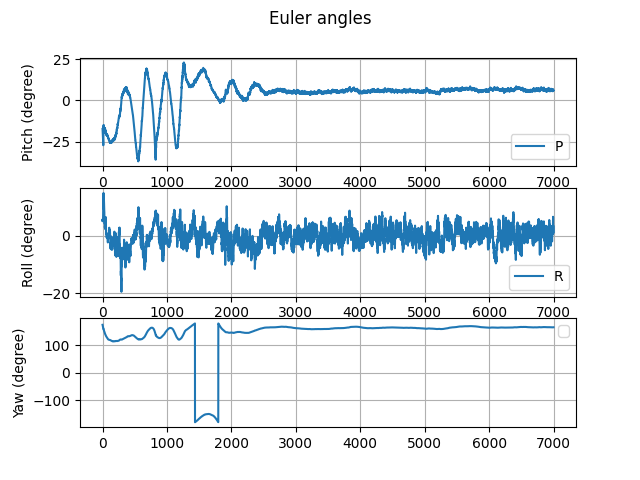
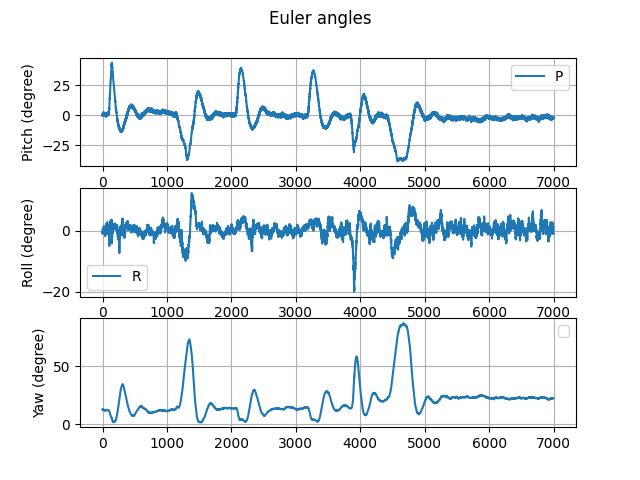
updated Hower PWM to 1340

diff --git a/Wifi Socket Control/bldc_class_control.py b/Wifi Socket Control/bldc_class_control.py
@@ -70,6 +70,8 @@ print("ESC Calibrated, Now start commands")
 
 esc1_pwm = 1300
 esc2_pwm = 1300
+
+step_change = 5
 while True:
     data, addr = sock.recvfrom(1024)
     ## The above data comes in bytes, need to convert it into string
@@ -86,16 +88,16 @@ while True:
         esc2.set(min_value)
     
     elif data == "d1a":
-        esc1_pwm = 1700 if esc1_pwm >= 1700 else esc1_pwm + 50
+        esc1_pwm = 1700 if esc1_pwm >= 1700 else esc1_pwm + step_change
         esc1.set(esc1_pwm)
     elif data == "d1s":
-        esc1_pwm = 1199 if esc1_pwm <= 1199 else esc1_pwm - 50
+        esc1_pwm = 1199 if esc1_pwm <= 1199 else esc1_pwm - step_change
         esc1.set(esc1_pwm)
     elif data == "d2a":
-        esc2_pwm = 1700 if esc2_pwm >=1700 else esc2_pwm + 50
+        esc2_pwm = 1700 if esc2_pwm >=1700 else esc2_pwm + step_change
         esc2.set(esc2_pwm)
     elif data == "d2s":
-        esc2_pwm = 1199 if esc2_pwm <= 1199 else esc2_pwm - 50
+        esc2_pwm = 1199 if esc2_pwm <= 1199 else esc2_pwm - step_change
         esc2.set(esc2_pwm)
     
     elif data == "device4off":

diff --git a/Twin Rotor/pitch_yaw_controller.py b/Twin Rotor/pitch_yaw_controller.py
@@ -76,9 +76,9 @@ epochs = 8000
 Q = np.tile([1.0, 0.0,0.0,0.0], (epochs,1))
 eul = []
 
-PID_PI_P_GAIN = 0.6
-PID_PI_I_GAIN = 0.30
-PID_PI_D_GAIN = 0.01
+PID_PI_P_GAIN = 0.8
+PID_PI_I_GAIN = 0
+PID_PI_D_GAIN = 0.00
 
 pa_pid = PID(PID_PI_P_GAIN, PID_PI_I_GAIN, PID_PI_D_GAIN)
 
@@ -112,7 +112,7 @@ for t in range(1, epochs):
     
     ## Debug
     #print("PWM: {:.2f}\t error:{:.2f} PITCH: {:.2f}\t ROLL: {:.2f}\t YAW: {:.2f}".format(pwm_to_give, error, X, Y, Z))
-    print("PWM: {}\tPITCH: {:.2f} \t ROLL: {:.2f} \t YAW: {:.2f} ".format(pwm_to_give, meas_pitch, meas_roll, meas_yaw))
+    print("PWM: {}\tERR: {}\tPITCH: {:.2f} \t ROLL: {:.2f} \t YAW: {:.2f} ".format(pwm_to_give,error, meas_pitch, meas_roll, meas_yaw))
     angles.append([meas_pitch, meas_roll, meas_yaw])
 
 angles = np.array(angles)

diff --git a/Twin Rotor/esc.py b/Twin Rotor/esc.py
@@ -38,4 +38,4 @@ pi = pigpio.pi()
 max_value = 1700
 min_value = 1199
 
-hover_pwm = 1230
+hover_pwm = 1345
